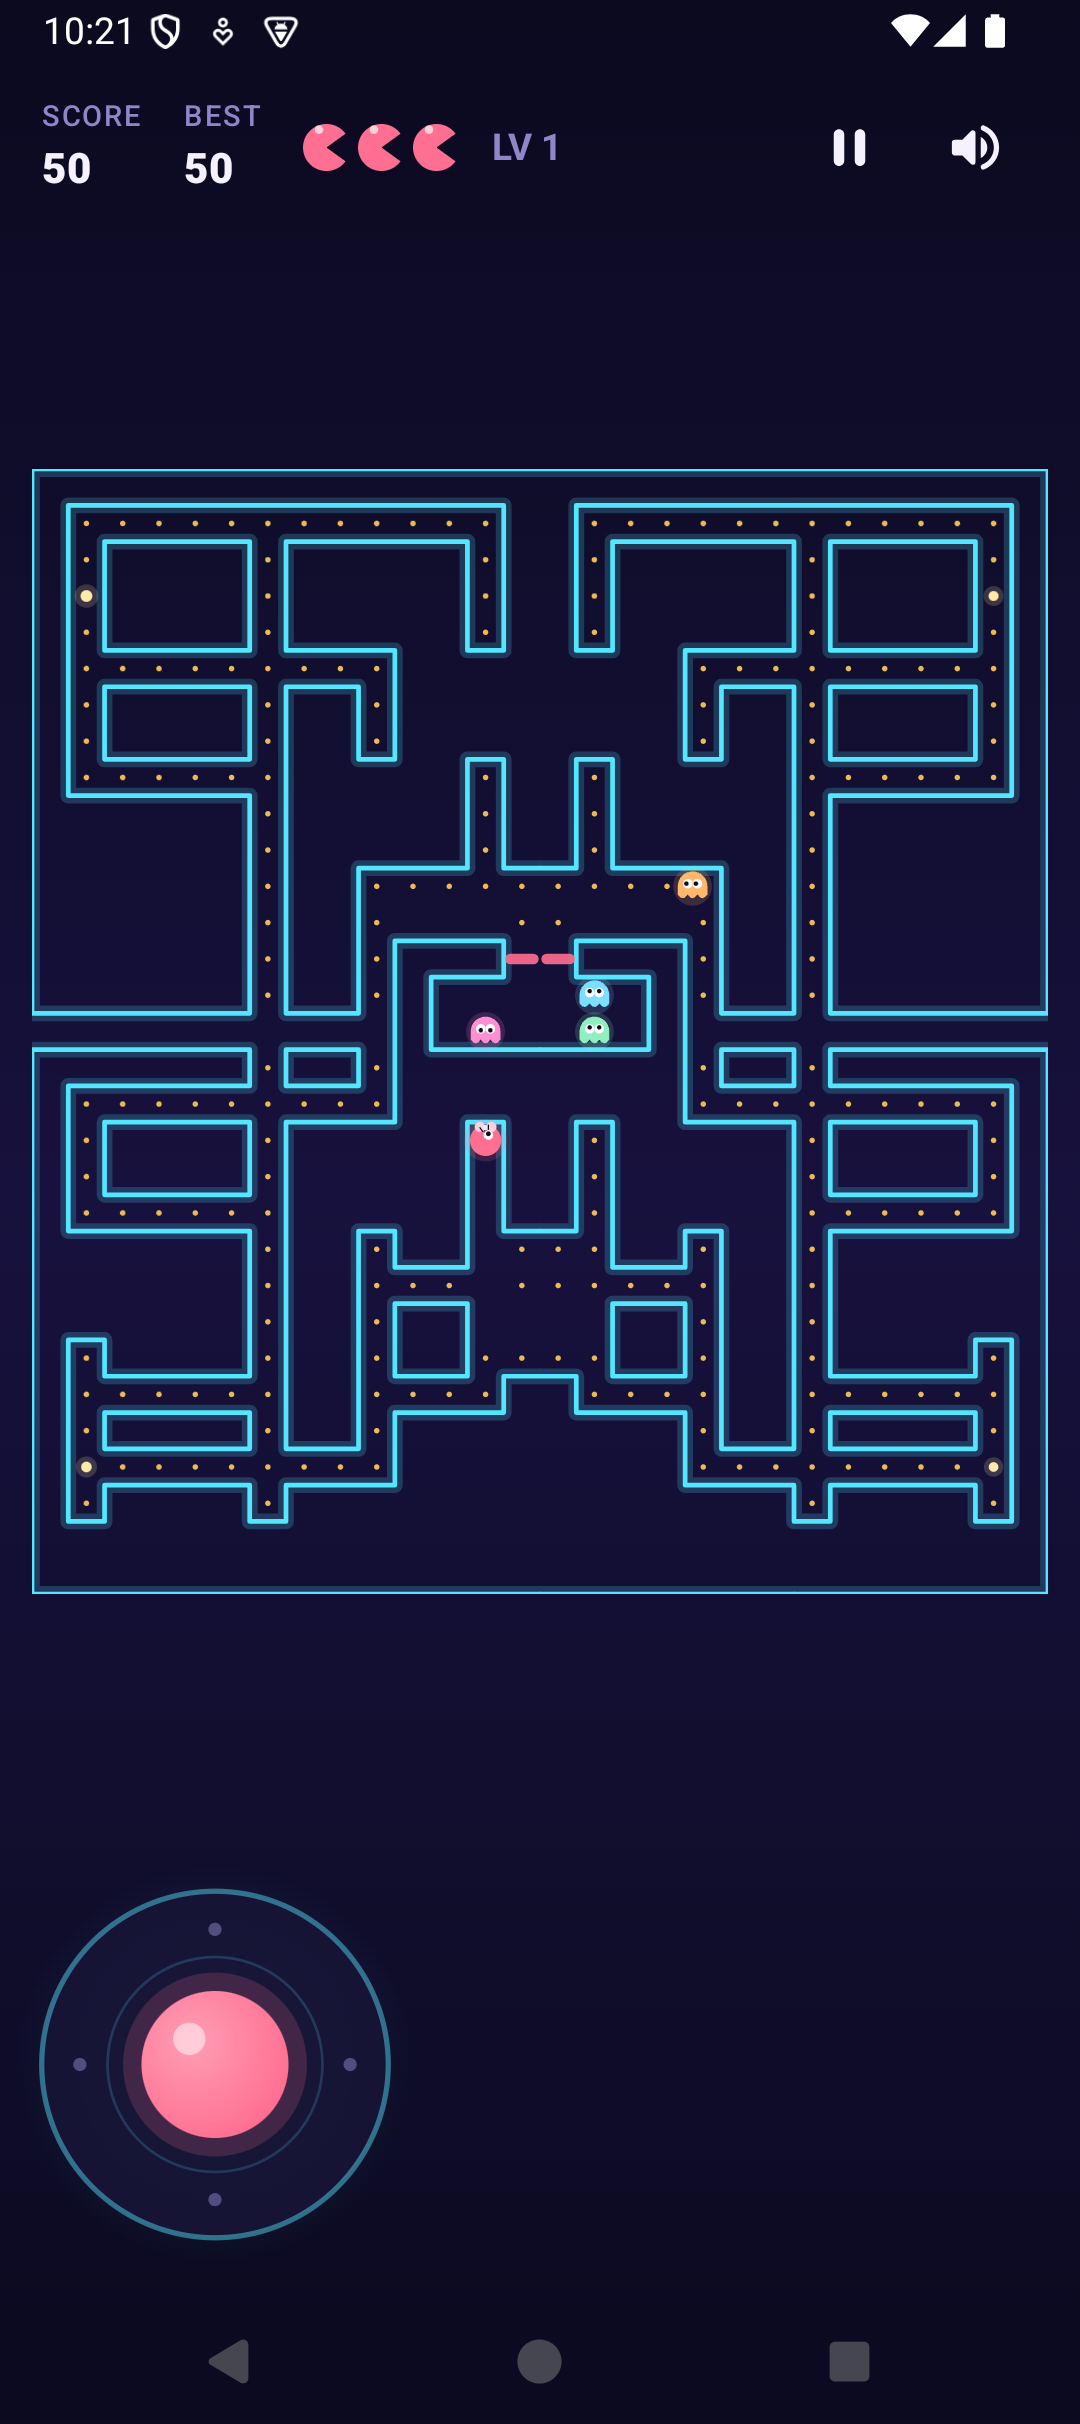
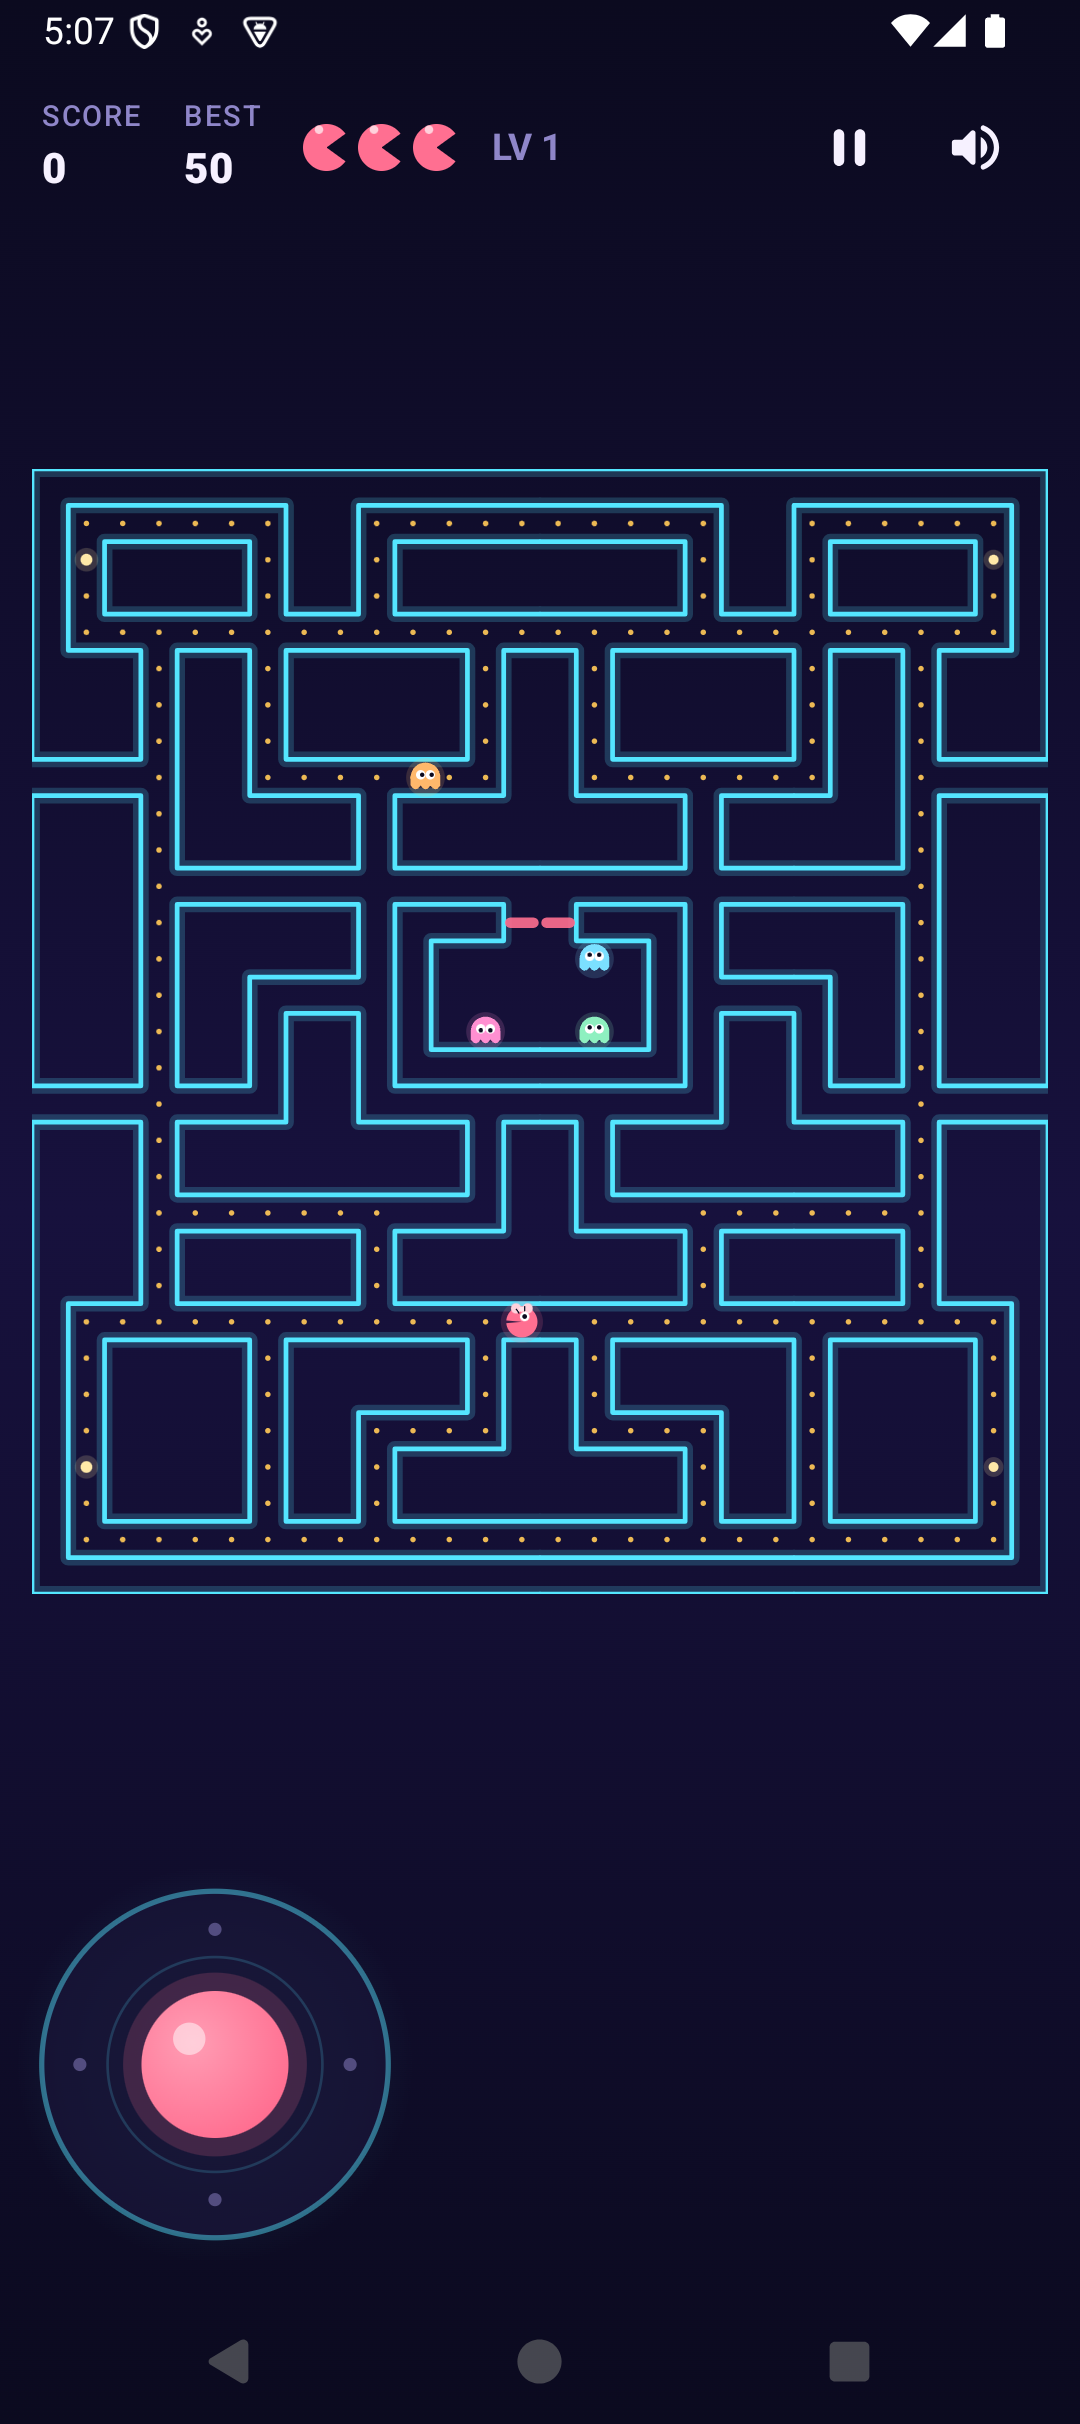
Update the plan for the arcade maze layouts
Record the four arcade mazes, the real level order, the one- or
two-tunnel rows, and the exact edible counts.

Replace the stale screenshot with the new level 1 board.

Note the licensing posture: the layouts follow the arcade game, while
the name, characters, art, and audio remain original.

Changed region(s): [[0.0306, 0.1856, 0.9778, 0.6498], [0.0306, 0.0, 0.275, 0.0309], [0.0306, 0.0619, 0.0917, 0.0928]]

diff --git a/docs/plans/PLAN-ms-munch.md b/docs/plans/PLAN-ms-munch.md
@@ -3,7 +3,7 @@
 ## Intent
 
 - An offline Android maze-chase game inspired by classic 1980s arcade
-  games, with an original name, art, maze layouts, and audio.
+  games, with an original name, art, and audio.
 - Designed for kids: pick up and play, no reading required, no ads, no
   accounts, no network.
 - Short rounds, immediate replay, and a persistent best score.
@@ -31,21 +31,28 @@
 
 ## Legal guardrail
 
-- Homage only. No Bandai Namco names, characters, maze layouts,
-  sprites, sounds, or fonts.
-- All mazes, character designs, vector art, and generated audio are
-  original.
-- In-app copy and documentation call it a maze chase and never use the
-  Pac-Man trademarks.
+- Homage only. No Bandai Namco names, characters, sprites, sounds, or
+  fonts.
+- Maze layouts reproduce the four classic Ms. Pac-Man arcade mazes.
+  Character designs, vector art, and generated audio are original.
+- In-app copy and user-facing documentation call it a maze chase and
+  never use the Pac-Man trademarks.
+- Reconfirm the licensing posture before any public distribution, since
+  the layouts are copied from the arcade game.
 
 ## Board and rules
 
 - 28 columns by 31 rows, the classic maze-chase proportion.
-- Two original layouts, Maze A and Maze B, alternate each level.
+- Four layouts matching the arcade mazes. Levels 1-2 use maze 1,
+  3-5 maze 2, 6-9 maze 3, and 10-13 maze 4. After level 13, mazes 3
+  and 4 alternate every four levels.
 - Tile types: wall, dot, power pellet, empty corridor, ghost house
   door, house interior, and tunnel.
-- Side tunnels wrap horizontally.
-- About 240 dots per maze and four power pellets near the corners.
+- Side tunnels wrap horizontally. Maze 1 has tunnels on rows 8 and
+  17, maze 2 on rows 1 and 23, maze 3 on row 9, and maze 4 on rows
+  13 and 16 (zero-based rows).
+- Edible counts per maze, including power pellets: 224, 244, 242, and
+  238. Each maze has exactly four power pellets.
 - Clear all dots and pellets to complete a level.
 - Three lives. One extra life at 10,000 points per game.
 - Fruit appears below the house at 70 and 170 dots eaten and stays for
@@ -104,8 +111,8 @@
 
 - Dot 10, pellet 50. Fruit is worth 100, 300, 500, 700, 1000, 2000,
   3000, then 5000 by level band, cycling.
-- Clearing a level pauses briefly, then starts the next level with the
-  other maze, fresh dots, and reset actors.
+- Clearing a level pauses briefly, then starts the next level with
+  that level's maze, fresh dots, and reset actors.
 - Ghost normal speed is 5.9 tiles per second at level 1, increases by
   0.22 per level, and caps at 7.8.
 - Speeds never drop below their level 1 values.
@@ -210,8 +217,9 @@
 ## Testing
 
 - JUnit 4 unit tests for the engine:
-  - parsing and validating both mazes, including connectivity,
-    pellet reachability, house exits, and dot totals
+  - parsing and validating all four mazes, including connectivity,
+    pellet reachability, house exits, dot totals, tunnel rows, and
+    dead ends
   - corridor movement and wall blocking
   - perpendicular turn at a tile center with snapping
   - buffered turn applied at the next legal center
@@ -236,7 +244,8 @@
   launches on the pixel9a emulator.
 - Manual verification: portrait and landscape, handedness, joystick
   tap and drag, pause, background and foreground, mute, high score
-  persistence, both mazes, the frightened chain, death, and game over.
+  persistence, all four mazes, the frightened chain, death, and game
+  over.
 
 ## Stages
 
@@ -244,7 +253,7 @@
 2. Project scaffold: gitignore, editorconfig, licenses, Gradle wrapper
    and scripts, manifest, theme, launcher placeholder, justfile, README
    skeleton.
-3. Maze data, parser, validator, two original layouts, and tests.
+3. Maze data, parser, validator, four arcade layouts, and tests.
 4. Player and actor movement engine with tests.
 5. Ghost AI, house and mode timers, frightened and eyes, with tests.
 6. Round flow: scoring, fruit, lives, levels, extra life, events, and
@@ -276,7 +285,7 @@
   permission.
 - Joystick steering, tap-to-turn, handedness, and pause work in
   portrait and landscape.
-- Both mazes play, all four ghost personalities are observable, and
+- All four mazes play, all four ghost personalities are observable, and
   the frightened chain and eyes return work.
 - Lives, extra life, fruit, level ramp, high score, mute, and
   handedness persist correctly.
